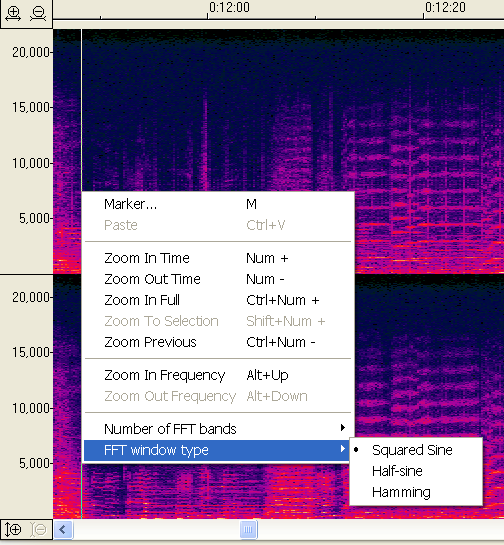
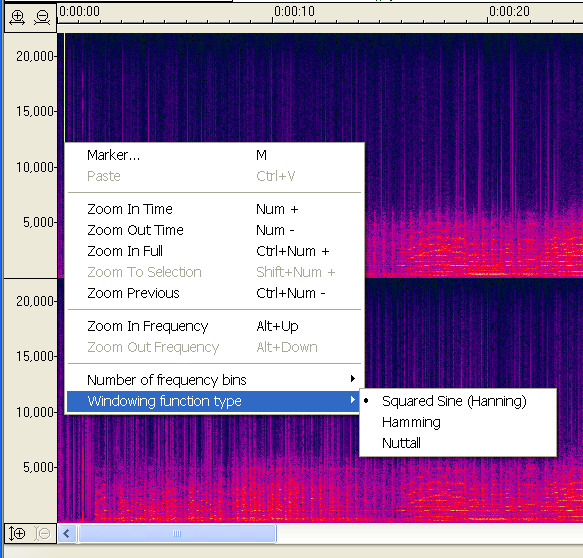
Nuttall window supported

diff --git a/hlp/html/MainWindow/spectrum_section_pane.htm b/hlp/html/MainWindow/spectrum_section_pane.htm
@@ -27,9 +27,9 @@ frequency band. On its left end, you can see two buttons to zoom it in and out.<
 (horizontal) axis;</p>
 <p>&quot;<b>Zoom In Frequency/Zoom Out Frequency</b>&quot; - increase/decrease scale on 
 the frequency (vertical) axis;</p>
-<p>&quot;<b>Number of FFT bands</b>&quot; - allows to select frequency resolution. It is 
+<p>&quot;<b>Number of frequency bins</b>&quot; - allows to select frequency resolution. It is 
 synchronized with <a href="fft_spectrum_view.htm">spectrum view</a>.</p>
-<p>&quot;<b>FFT window type</b>&quot; - allows to select different
+<p>&quot;<b>Windowing function type</b>&quot; - allows to select different
 <a href="fft_spectrum_view.htm#window_type">windowing function</a>.</p>
 <p>&quot;<b>Show Noise Masking</b>&quot; - turns on and off display of
 <a href="../Process/process_noise_reduction.htm#algorithm">noise masking 
